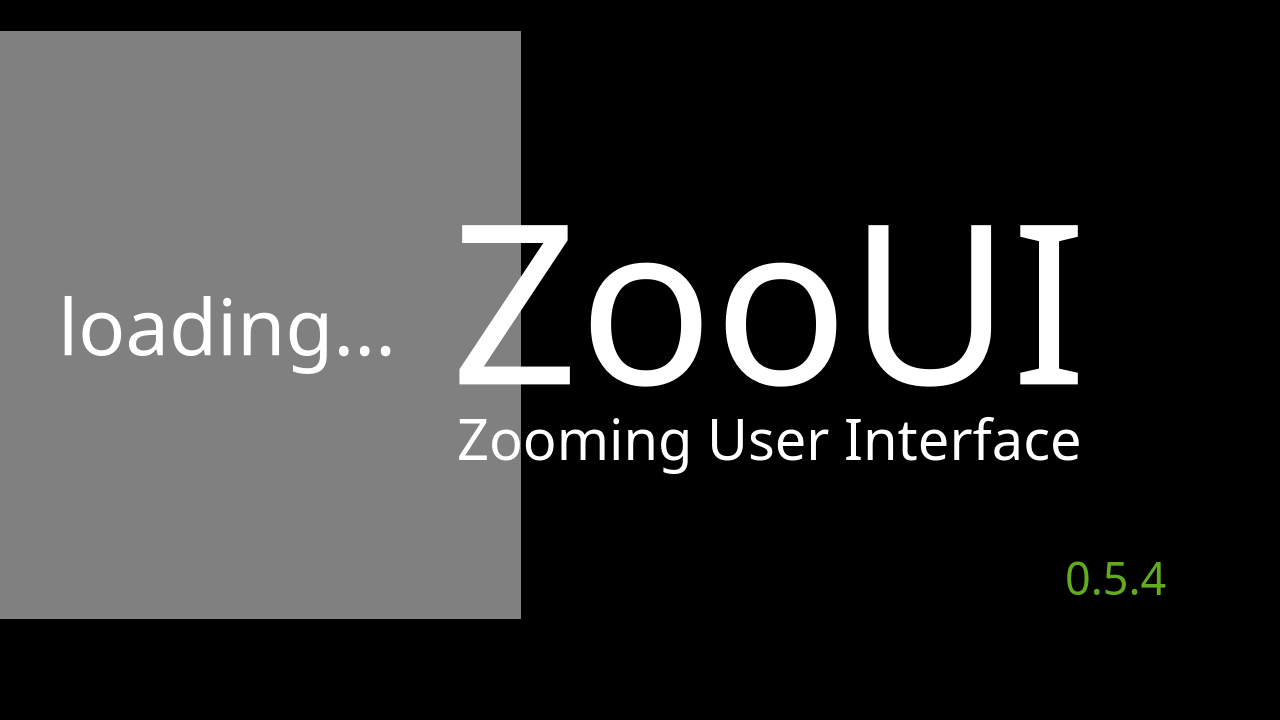
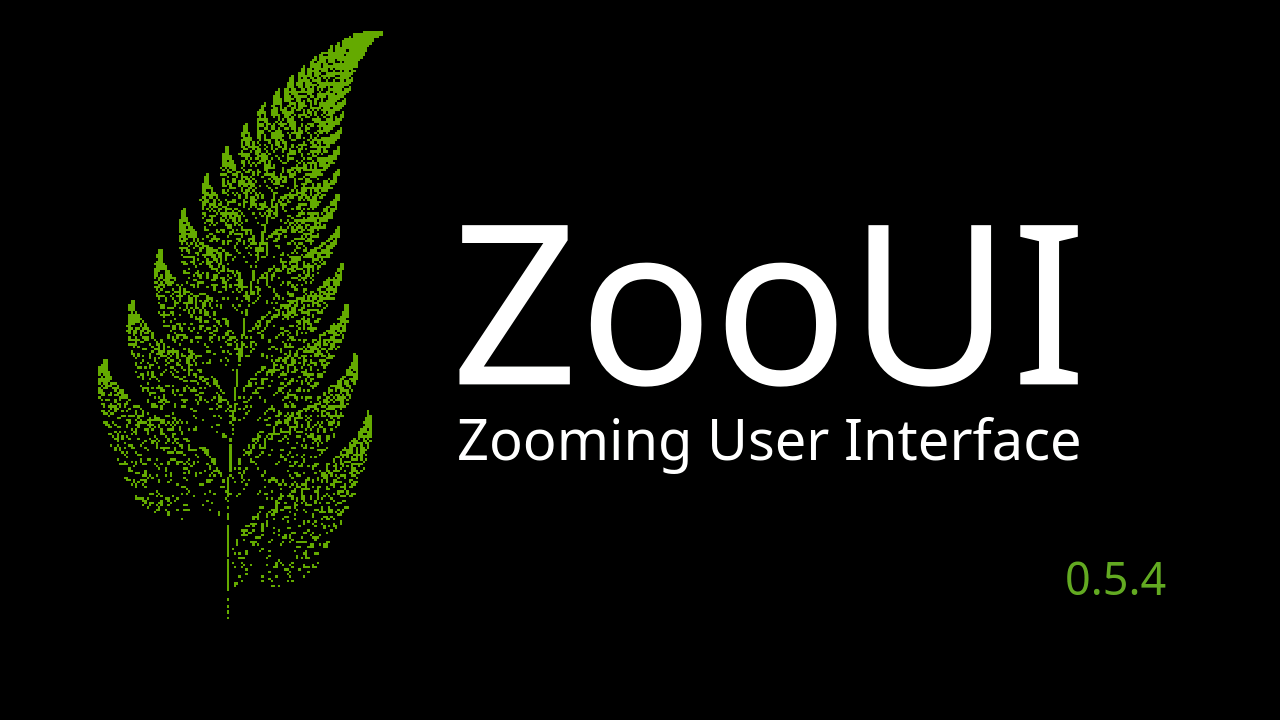
fix: bump script fern tile loading and screenshot re-capture
- bump_version.py: avoid flooding TileProvider queue by calling get_tile()
  in a tight loop (each call redundantly fires load_tile). Instead load_tile
  once, then sleep+processEvents before polling get_tile.
- Increased initial processEvents warmup from 60→120 iterations.
- Re-captured data/home.png with 0.5.4 version text and properly loaded fern.

diff --git a/scripts/bump_version.py b/scripts/bump_version.py
@@ -185,16 +185,26 @@ def _capture_home_screenshot() -> None:
     for _ in range(60):
         app.processEvents(QtCore.QEventLoop.AllEvents, 50)
 
-    # Poll for fern root tile (timeout ~6 s)
+    # Load the fern root tile and wait for async generation
+    # Avoid calling get_tile() in a loop — each call fires another
+    # load_tile(), flooding the provider queue.  load_tile once, then
+    # sleep+processEvents, and finally get_tile to check the result.
+    import time
+
     FERN_TILE_ID: tuple[str, int, int, int] = ("dynamic:fern", 0, 0, 0)
+    TileManager.load_tile(FERN_TILE_ID)
+    time.sleep(0.2)
+
     tile_ready = False
-    for _ in range(60):
+    for _ in range(120):
+        app.processEvents(QtCore.QEventLoop.AllEvents, 100)
+        time.sleep(0.1)
         try:
             TileManager.get_tile(FERN_TILE_ID)
             tile_ready = True
             break
         except (TileManager.TileNotLoaded, TileManager.TileNotAvailable):
-            app.processEvents(QtCore.QEventLoop.AllEvents, 100)
+            pass
     if tile_ready:
         print("Fern root tile loaded.")
     else: